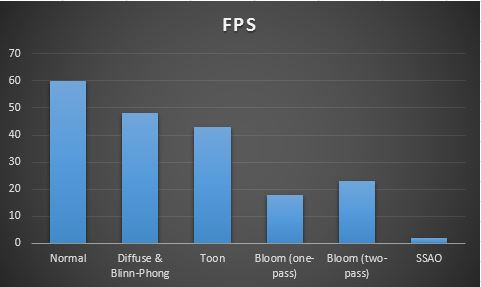
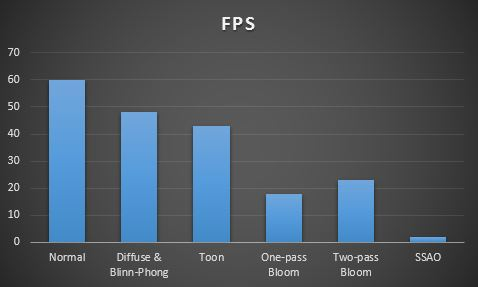
readme

diff --git a/README.md b/README.md
@@ -124,13 +124,13 @@ Bloom:
 -------------------------------------------------------------------------------
 PERFORMANCE EVALUATION
 -------------------------------------------------------------------------------
-The following table shows the FPS for each featurs:
+The following chart shows the FPS for each featurs:
 
-![ScreenShot](https://github.com/liying3/Project6-DeferredShader/blob/master/results/p_toon(fps%201).PNG)
+![ScreenShot](https://github.com/liying3/Project6-DeferredShader/blob/master/results/FPS.JPG)
 
 I also compared the performance of one-pass and two-pass bloom effect with different-size filter. The following chart shows that, two-pass bloom is of higher efficiency than one-pass bloom.
 
-![ScreenShot](https://github.com/liying3/Project6-DeferredShader/blob/master/results/p_toon(fps%201).PNG)
+![ScreenShot](https://github.com/liying3/Project6-DeferredShader/blob/master/results/chart%20bloom.JPG)
 
 -------------------------------------------------------------------------------
 THIRD PARTY CODE POLICY
